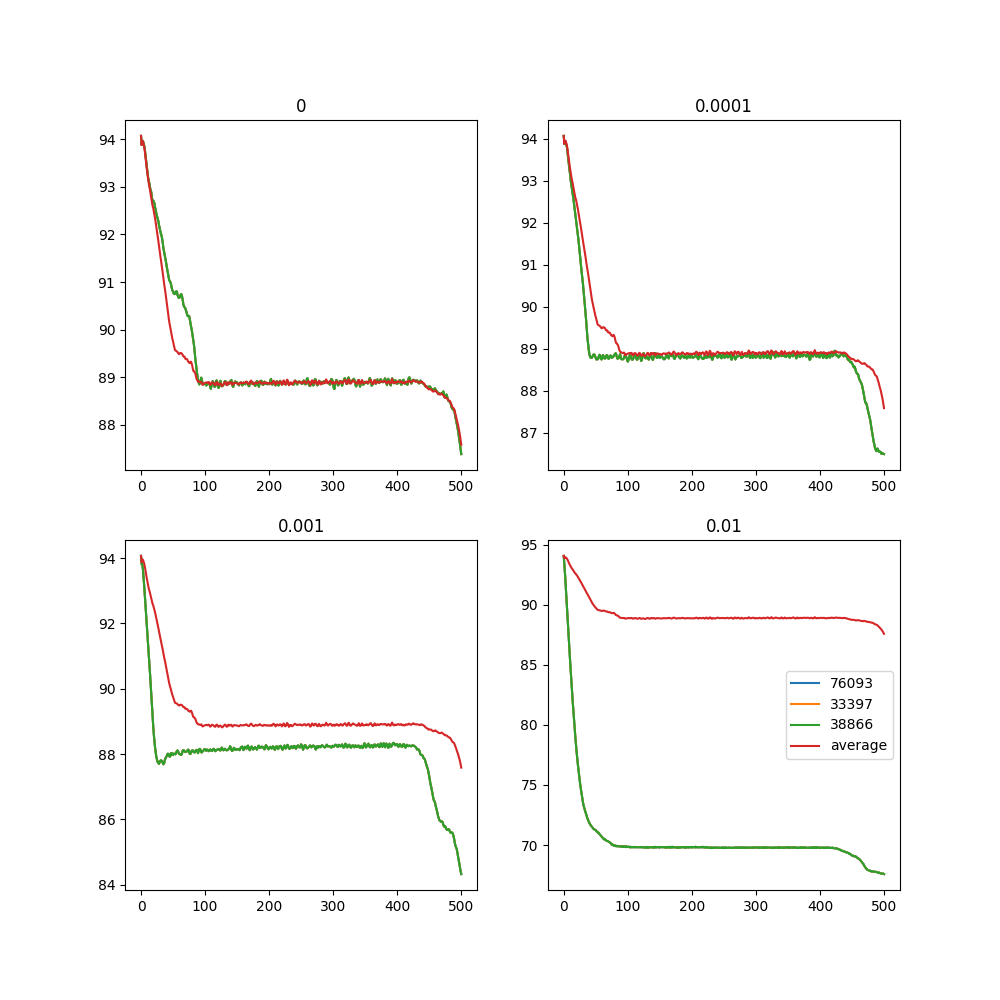
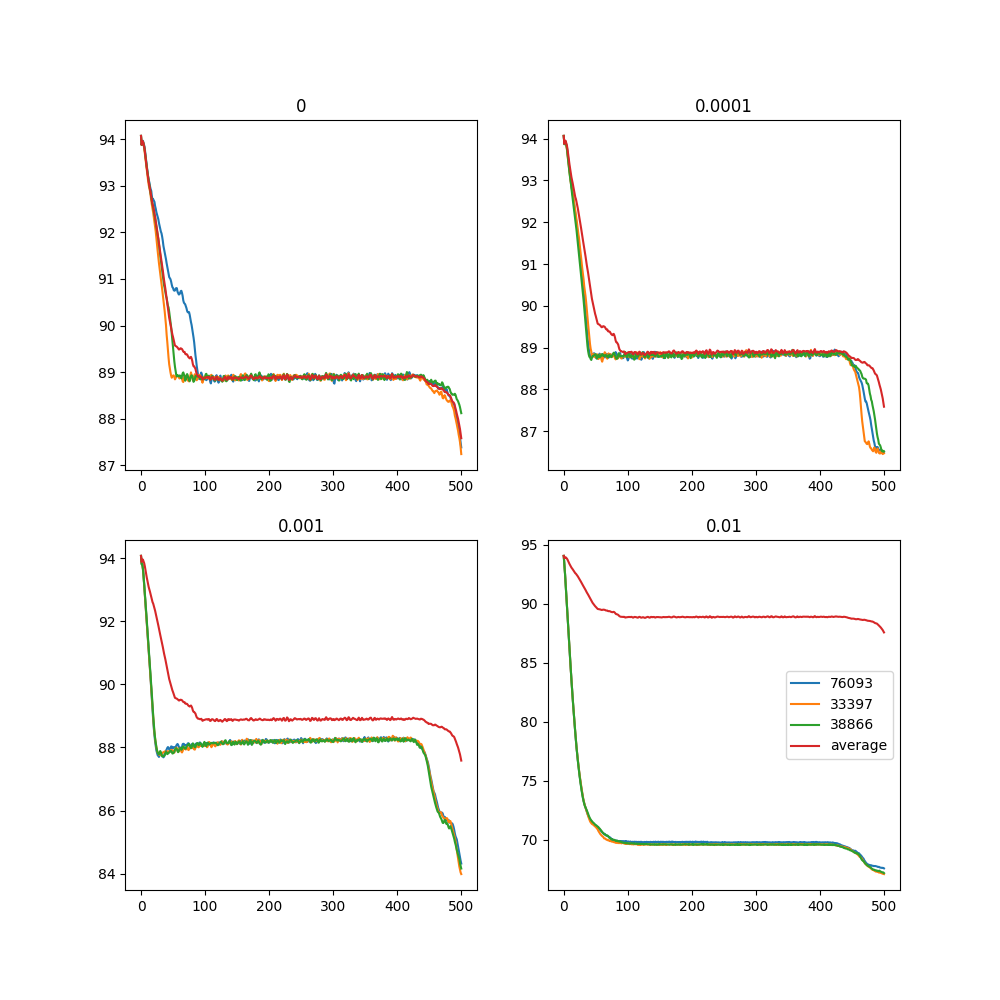
plot update

diff --git a/python/post/max_z.py b/python/post/max_z.py
@@ -50,7 +50,7 @@ def plot_max_z(asperities, uc, temp, time, initnum):
             frames = np.array(frames)
             height = np.array(height)
             heights.append(height)
-            axs[i].plot(frames, heights[0], label = seed)
+            axs[i].plot(frames, height, label = seed)
             plt.legend()
             
         avg_max.append(np.mean(heights, axis = 0))
